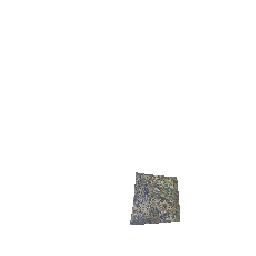
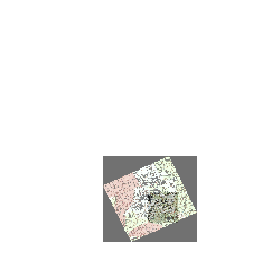
replaced old georeferencing

Changed region(s): [[0.375, 0.5938, 0.7812, 0.9688]]

diff --git a/Homework 4/HW4.html b/Homework 4/HW4.html
@@ -11,14 +11,14 @@
     <a href="./Tiles/tile_uncmap_html.html">HTML for georeferenced image</a>
 
     <h3>Control Points</h3>
-    <a href="./control_points.txt">.txt file with control points</a><p></p>
+    <a href="./homework4GCPpoints.txt">.txt file with control points</a><p></p>
 
     <h3>Tiles</h3>
-    <a href="https://github.com/iabauer2/GEOG370Spring2022/tree/main/Homework%204/Tiles/tile_examples">Tiles</a><p></p>
+    <a href="new github link to tiles">Tiles</a><p></p>
 
     <h3>PNG Image</h3>
-    <a href="./georeferenceduncmap.png">
-    <img src="./georeferenceduncmap.png" alt="Map" width='500px'>
+    <a href="./homeworkmappng.png">
+    <img src="./homeworkmappng.png" alt="Map" width='500px'>
 
 </body>
 </html>

diff --git a/Homework 4/Tiles/tile_uncmap_html.html b/Homework 4/Tiles/tile_uncmap_html.html
@@ -26,8 +26,8 @@
 <body>
   <div id="map"></div>
   <script>
-      var map = L.map('map').setView([35.90510019148523, -79.04825608718815], 14.0);
-      L.tileLayer('file:///C%3A/Users/Isaac%20Bauer/Desktop/GitHub/GEOG370Spring2022/Homework%204/Tiles/tile_examples/{z}/{x}/{y}.png', {
+      var map = L.map('map').setView([35.90489199039657, -79.05017352254039], 14.0);
+      L.tileLayer('file:///C%3A/Users/Isaac%20Bauer/Desktop/GitHub/GEOG370Spring2022/Homework%204/Tiles/Tile_examples/{z}/{x}/{y}.png', {
         minZoom: 12,
         maxZoom: 16,
         tms: false,
